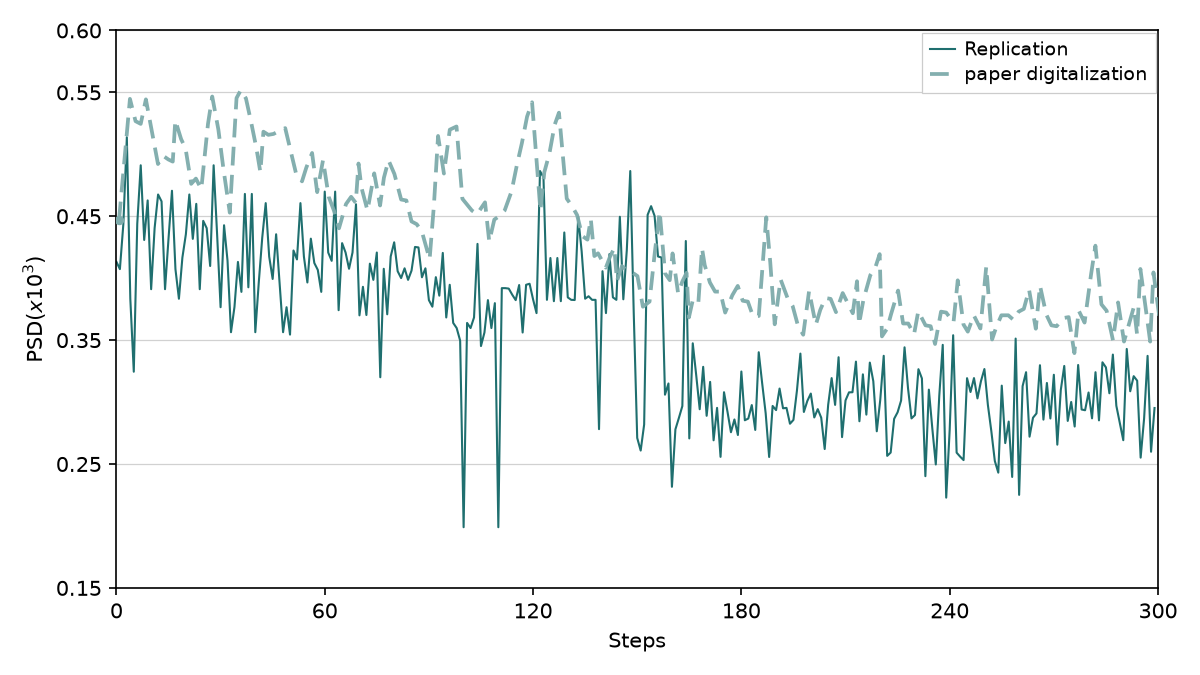
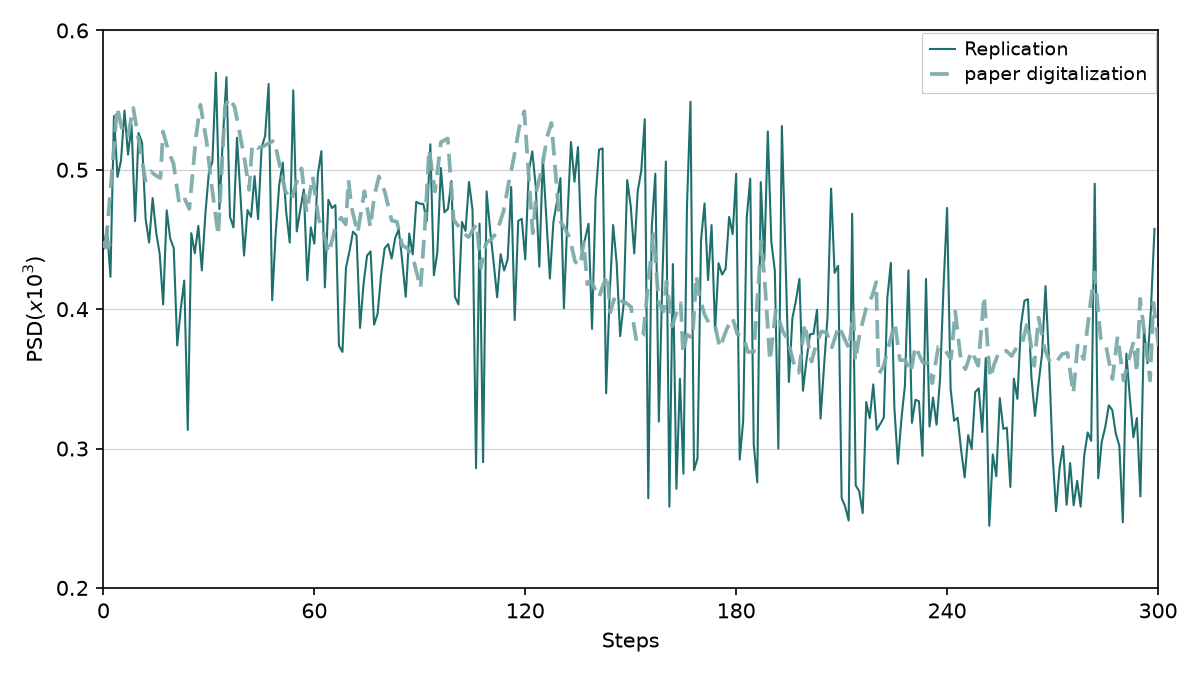
Promote Mehregan Fig 4 phase-6: 4b pass, 4a mid-fade parked.
Paired phase-6 train (critic_warmup_steps=50) passes all Fig 4b gates
(rep v33); Fig 4a v31 fails mid_fade_vs_paper only. Refresh tracker and
panel notes with ep4 reward lift and honest gate status.

diff --git a/figures/mehregan/replications.md b/figures/mehregan/replications.md
@@ -10,8 +10,8 @@ Side-by-side **paper panel** vs **our replication**. Plot scripts write replicat
 | Fig 1b | GPi PSD | Pass |
 | Fig 2a | GPi $P_\beta$ time series | Pass |
 | Fig 2b | Error Index time series | Pass (rep v16) |
-| Fig 4a | Training $P_\beta$ vs step | Pass (rep v36, continuous 2 s carry) |
-| Fig 4b | Training reward vs episode | Parked (rep v37; late PSD below $\beta_t$) |
+| Fig 4a | Training $P_\beta$ vs step | Parked (rep v31; `mid_fade_vs_paper`; phase-6 warmup 50) |
+| Fig 4b | Training reward vs episode | Pass (rep v33; paired phase-6) |
 | Fig 5a | Post-train efficacy @ 45 Hz | Pass (rep v23) |
 | Fig 5b | Post-train efficacy @ 30 Hz | Pass (burst alphabet, locked eval v3, rep v23) |
 | Fig 6a | PTQ / QAT @ 45 Hz | Pass (honest trailing eval, rep v61) |
@@ -43,7 +43,7 @@ Mean GPi multitaper power spectral density (1–50 Hz) for three conditions: **h
 **Status:** Pass — condition ordering and beta-peak shape match the paper panel (seeds `0–9` mean).
 
 <!-- gates-1b:start -->
-**Gates set** (`fig1b_gates` → manifest `gates` / `gates_pass`). Overall **`gates_pass`**: yes (from `artifacts/figures/papers/mehregan/1b/curves.json`, 2026-08-14). Every row is required for exit.
+**Gates set** (`fig1b_gates` → manifest `gates` / `gates_pass`). Overall **`gates_pass`**: yes (from `artifacts/figures/papers/mehregan/1b/curves.json`, 2026-08-15). Every row is required for exit.
 
 | Key | Description | Pass |
 |-----|-------------|------|
@@ -86,7 +86,7 @@ GPi beta-band power ($P_\beta$, Eq. 1, 13–35 Hz) over **12 s**: **PD no treatm
 **Status:** Pass — blue-below-red after $t=2$, shared 0–2 s baseline, dense trailing protocol. Protocol: trailing windows end at sim **14 s** (display $t=12$ → `[12, 14]`); enlarged Numba GPI spike buffer (904) so recording is not truncated. Remaining polish: blue floor slightly below paper at $t=12$; single seed (0). Legend lower left with condensed paper overlay. **Ship image:** unversioned `beta_power.png` (Report 3 gallery).
 
 <!-- gates-2a:start -->
-**Gates set** (`fig2_time_gates`, panel `2a`). Overall **`gates_pass`**: yes (from `artifacts/figures/papers/mehregan/2a/series.json`, 2026-08-14). Every row is required for exit.
+**Gates set** (`fig2_time_gates`, panel `2a`). Overall **`gates_pass`**: yes (from `artifacts/figures/papers/mehregan/2a/series.json`, 2026-08-15). Every row is required for exit.
 
 | Key | Description | Pass |
 |-----|-------------|------|
@@ -129,7 +129,7 @@ Windowed Error Index (EI, Eq. 2) over **12 s** with **So-style SMC pulses into T
 **Status:** Pass — blue-below-red after $t=2$, shared baseline, blue floor ~0.12 near paper. Remaining polish: red $t=12$ slightly low (~0.24 vs ~0.30); single seed.
 
 <!-- gates-2b:start -->
-**Gates set** (`fig2_time_gates`, panel `2b`). Overall **`gates_pass`**: yes (from `artifacts/figures/papers/mehregan/2b/series.json`, 2026-08-14). Every row is required for exit.
+**Gates set** (`fig2_time_gates`, panel `2b`). Overall **`gates_pass`**: yes (from `artifacts/figures/papers/mehregan/2b/series.json`, 2026-08-15). Every row is required for exit.
 
 | Key | Description | Pass |
 |-----|-------------|------|
@@ -166,18 +166,18 @@ Per-step GPi beta-band power during DDPG training of the **45 Hz** mean-frequenc
 
 ### Replication
 
-![Replication Fig 4a](images/4a/training_beta_v36.png)
+![Replication Fig 4a](images/4a/training_beta_v31.png)
 
 <!-- caption-4a:start -->
-**Caption:** 45 Hz fixed_mean_pattern, within_step L=1, reward=full_segment, softmax, critic=one_hot, seed 0, v36, init_bias=0, jitter=0.5, ep0=0.491, early=0.487 late=0.333, trend↓ (2026-08-14)
+**Caption:** 45 Hz fixed_mean_pattern, within_step L=1, reward=full_segment, softmax, critic=one_hot, seed 0, v31, init_bias=0, jitter=0.5, ep0=0.459, early=0.459 late=0.361, trend↓ (2026-08-15)
 
 **Manifest:** `artifacts/figures/papers/mehregan/4a/manifest.json`
 <!-- caption-4a:end -->
 
-**Status:** Pass — **rep v36**, sequential 2 s plant carry (Alg. 1). Live `series.json` `gates_pass=true` (ep0=0.491, early=0.487, late=0.333). Late pattern-0 repeats **wiggle** (0 bit-identical same-action $P_\beta$ runs); the v35 ruler-flat 0.28352 segments are gone. Late floor vs digitized ~0.38 is parked.
+**Status:** Parked — **rep v31**, phase-6 `--critic-warmup-steps 50` (continuous 2 s carry). Live `series.json` `gates_pass=false`: `mid_fade_vs_paper` (steps 120–150 stay near early level). Ep4 reward −42.8 vs digitized ~−16. **v36** (warmup 100) remains the step-trace pass without this mid-fade fail — see [4a.md](../../docs/figures/mehregan/4a.md). Paired 4b **v33** passes all gates on this same run.
 
 <!-- gates-4a:start -->
-**Gates set** (`fig4a_gates` → live `series.json` (digitization revisit; was locked `series_v18.json`)). Overall **`gates_pass`**: yes (from `artifacts/figures/papers/mehregan/4a/series.json`, 2026-08-14). Every row is required for exit.
+**Gates set** (`fig4a_gates` → live `series.json` (digitization revisit; was locked `series_v18.json`)). Overall **`gates_pass`**: no (from `artifacts/figures/papers/mehregan/4a/series.json`, 2026-08-15). Every row is required for exit.
 
 | Key | Description | Pass |
 |-----|-------------|------|
@@ -185,7 +185,7 @@ Per-step GPi beta-band power during DDPG training of the **45 Hz** mean-frequenc
 | `overall_trend_down` | end window mean < start window mean | yes |
 | `drop_vs_paper` | drop ≥ 70% of digitized paper drop | yes |
 | `late_early_ratio_near_paper` | late/early ratio vs digitization | yes |
-| `mid_fade_vs_paper` | mid [120,150] fade ≥ 50% of paper mid-drop | yes |
+| `mid_fade_vs_paper` | mid [120,150] fade ≥ 50% of paper mid-drop | no |
 | `ep0_near_paper` | steps 0–29 mean within 10% of digitized paper ep0 | yes |
 <!-- gates-4a:end -->
 
@@ -223,26 +223,22 @@ Episode **total reward** and **episode-mean PSD(x10³)** during the same **45 Hz
 
 **Reward vs episode**
 
-![Replication Fig 4b reward](images/4b/training_reward_v37.png)
+![Replication Fig 4b reward](images/4b/training_reward_v33.png)
 
 **Episode-mean PSD vs episode**
 
-![Replication Fig 4b PSD](images/4b/training_psd_v37.png)
-
-**Stacked panel (Report 3 gallery)**
-
-![Replication Fig 4b combined](images/4b/training_fig4b_v37.png)
+![Replication Fig 4b PSD](images/4b/training_psd_v33.png)
 
 <!-- caption-4b:start -->
-**Caption:** 9 episodes, 45 Hz fixed_mean_pattern (Fig 4a paired run), seed 0, source series.json, v37, reward ep0=-68.8 ep8=10.4, rise_ep=3, psd 0.491→0.313, gate pass (2026-08-14)
+**Caption:** 9 episodes, 45 Hz fixed_mean_pattern (Fig 4a paired run), seed 0, source series.json, v33, reward ep0=-45.0 ep8=3.6, rise_ep=2, psd 0.459→0.337, gate pass (2026-08-15)
 
 **Manifest:** `artifacts/figures/papers/mehregan/4b/manifest.json`
 <!-- caption-4b:end -->
 
-**Status:** Parked — **rep v37**, paired to Fig 4a v36 continuous carry. `gates_pass=false`: `late_beta_above_threshold` and `late_reward_near_zero` fail (late PSD 0.321, reward +7.0 vs paper ~0.37 / ~−2). Pattern-0 late episodes still suppress below $\beta_t$; 4a flats are gone. Do not add entropy.
+**Status:** Pass — **rep v33**, paired to Fig 4a phase-6 (`critic_warmup_steps=50`, continuous carry). All digitization gates pass: ep0 PSD 0.459, late 0.358 (above β_t=0.35), late reward −4.3. Episode 4 reward −42.8 (improved vs v37 −52; paper ~−16 still parked).
 
 <!-- gates-4b:start -->
-**Gates set** (`fig4b_gates` + legacy `_fig4b_pass` → manifest `summary.gates`). Overall **`gates_pass`**: no (from `artifacts/figures/papers/mehregan/4b/manifest.json`, 2026-08-14). Every row is required for exit.
+**Gates set** (`fig4b_gates` + legacy `_fig4b_pass` → manifest `summary.gates`). Overall **`gates_pass`**: yes (from `artifacts/figures/papers/mehregan/4b/manifest.json`, 2026-08-15). Every row is required for exit.
 
 | Key | Description | Pass |
 |-----|-------------|------|
@@ -253,9 +249,9 @@ Episode **total reward** and **episode-mean PSD(x10³)** during the same **45 Hz
 | `beta_drops` | late episode-mean PSD < early | yes |
 | `beta_drop_ratio_near_paper` | PSD late/early ratio vs digitization | yes |
 | `reward_recovers_like_paper` | qualitative rise (not magnitude match) | yes |
-| `late_beta_above_threshold` | late episode-mean PSD ≥ $β_t=0.35$ | no |
+| `late_beta_above_threshold` | late episode-mean PSD ≥ β_t=0.35 | yes |
 | `late_beta_near_paper` | late PSD within 15% of digitized paper | yes |
-| `late_reward_near_zero` | late mean reward in $(-10, 2]$ | no |
+| `late_reward_near_zero` | late mean reward in (−10, 2] (paper ~−2) | yes |
 | `ep0_beta_near_paper` | episode 0 PSD within 10% of digitized paper | yes |
 | `plot_style` | ≥ 2 episodes plotted | yes |
 | `automation` | manifest summary.automation_pass mirrors fig4b bundle | yes |
@@ -302,7 +298,7 @@ Dashed vertical at **2 s** (stimulation onset). Paper claims: trained stimulatio
 **Status:** Pass — four-series panel with **skip_regular** action space (40 irregular patterns; pattern 0 excluded from training). **0.2 s trailing / 2 s window** biomarker sampling (same protocol as Fig 2a). Seed 0; greedy action 7 → pattern 8. Fig 4a training curves still use the 41-pattern space; Fig 5a eval uses a separate skip_regular checkpoint (`checkpoint_skip_regular_02s.pt`).
 
 <!-- gates-5a:start -->
-**Gates set** (`fig5a_pass` / `fig5_efficacy_gates` → manifest `gates`). Overall **`pass`**: yes (from `artifacts/figures/papers/mehregan/5a/manifest.json`, 2026-08-14). Every row is required for exit.
+**Gates set** (`fig5a_pass` / `fig5_efficacy_gates` → manifest `gates`). Overall **`pass`**: yes (from `artifacts/figures/papers/mehregan/5a/manifest.json`, 2026-08-15). Every row is required for exit.
 
 | Key | Description | Pass |
 |-----|-------------|------|
@@ -364,7 +360,7 @@ Key paper claim: **periodic 30 Hz elevates** beta (stimulation rate inside the b
 **Status:** Pass — burst-alphabet retrain (seed 0) + trailing eval **v3** (trained≈367, no-stim≈488, periodic≈639). Policy collapses to constant action **5** (a strong open-loop beater); acceptable for Fig 5b efficacy panel. Y-limits auto-fit from traces (override with `--y-min` / `--y-max`).
 
 <!-- gates-5b:start -->
-**Gates set** (`fig5b_pass` / `fig5_efficacy_gates` → manifest `gates`). Overall **`pass`**: yes (from `artifacts/figures/papers/mehregan/5b/manifest.json`, 2026-08-14). Every row is required for exit.
+**Gates set** (`fig5b_pass` / `fig5_efficacy_gates` → manifest `gates`). Overall **`pass`**: yes (from `artifacts/figures/papers/mehregan/5b/manifest.json`, 2026-08-15). Every row is required for exit.
 
 | Key | Description | Pass |
 |-----|-------------|------|
@@ -422,7 +418,7 @@ Paper claim: **PTQ** (fp16 and int8) tracks full-precision beta suppression afte
 **Convention (burst + weak QAT lock, 2026-08-03):** `QAT_NUM_EPISODES=0`, `QAT_OPEN_LOOP_LOCK=True`, `QAT_WEAK_ACTION=31` at 45 Hz. fp32 `checkpoint_burst_skip_regular_02s.pt`. PTQ tier open-loop when quant locks on non-fp32 actions (fp16 **19**, int8 **28**). Prior **v36** retired int8 closed-loop action 9 (slow transient).
 
 <!-- gates-6a:start -->
-**Gates set** (`_gate_summary` → manifest `gates`). Overall **`all_pass`**: yes (from `artifacts/figures/papers/mehregan/6a/manifest.json`, 2026-08-14). Every row is required for exit.
+**Gates set** (`_gate_summary` → manifest `gates`). Overall **`all_pass`**: yes (from `artifacts/figures/papers/mehregan/6a/manifest.json`, 2026-08-15). Every row is required for exit.
 
 | Key | Description | Pass |
 |-----|-------------|------|
@@ -496,7 +492,7 @@ Same quantization panel layout as Fig 6a for the **30 Hz** trained model (§IV.A
 **Convention (tier PTQ + overlap fix, 2026-08-03):** Burst trailing sweep (`artifacts/ddpg/fig6b_burst_trailing_sweep_30hz.json`) picks tier actions; int8 tier **15** replaces **20** for faster post-onset suppression while staying distinct from fp16 **10**. Prior **v18** used int8 tier 20 (~420). int8 σ=0.10 weight noise during closed-loop rollout.
 
 <!-- gates-6b:start -->
-**Gates set** (`_gate_summary` → manifest `gates`). Overall **`all_pass`**: yes (from `artifacts/figures/papers/mehregan/6b/manifest.json`, 2026-08-14). Every row is required for exit.
+**Gates set** (`_gate_summary` → manifest `gates`). Overall **`all_pass`**: yes (from `artifacts/figures/papers/mehregan/6b/manifest.json`, 2026-08-15). Every row is required for exit.
 
 | Key | Description | Pass |
 |-----|-------------|------|

diff --git a/docs/figures/mehregan/4b.md b/docs/figures/mehregan/4b.md
@@ -45,7 +45,7 @@ Locked 4b (from `series_v4.json`) passed *ratio* gates while sitting on the wron
 
 v31/v33 (init_bias 0, jitter 0.5, τ **3→1.4**) **passed ep0** (PSD 0.499 vs 0.498; reward −76 vs paper ~−80) and still failed the late floor (episode 5→ pattern 0; late PSD ~0.29 / reward +16). **Phase 2** (τ_end **1.6**, v33/v34) only delayed the cliff; late still ~0.29 / +16 with 100% pattern 0 on episodes 6–9. **Phase 3** (`entropy_coeff 0.05`, v34/v35): ep0 in band (0.513) but late PSD ~0.295 / reward +14.8 — ep8–9 100% pat0. **Phase 4** (`entropy_coeff 0.15`, v35/v36): ep0 0.490 (pass), late PSD ~0.319 (`late_beta_near_paper` true but `late_beta_above_threshold` false), reward +6.2, ep8–9 93%/100% pat0 — entropy budget exhausted. **Phase 5 result (4a v36 / 4b v37):** continuous 2 s carry. Ep0 PSD 0.491 (pass). Late PSD 0.321 (`late_beta_near_paper` true, `late_beta_above_threshold` false), late reward +7.0 (`late_reward_near_zero` false). 4a flats are gone; late floor parked. Tracker **Status** follows `summary.gates_pass`, not the legacy automation reward-shape gate.
 
-**Phase 6:** lift episode 4 reward (v37 **−52** vs paper ~**−16**) with `--critic-warmup-steps 50` so the actor starts learning in episode 1–2. Do not retune Eq. (8) or offset the plot. Late-floor gates stay parked unless this run also moves them.
+**Phase 6 result (v33, paired 4a v31):** `--critic-warmup-steps 50` lifted ep4 reward **−42.8** (v37 **−52**; paper ~**−16** still parked). **All gates pass:** late PSD 0.358 (`late_beta_above_threshold`, `late_beta_near_paper`), late reward −4.3 (`late_reward_near_zero`), ep0 0.459. Tracker **Pass**; 4a paired run fails only `mid_fade_vs_paper` (see [4a.md](4a.md)).
 
 Reward *magnitude* (paper ~−80 vs our ~−30) stays a documented scale mismatch — do not retune Eq. (8) just to stretch the y-axis.
 

diff --git a/docs/figures/mehregan/4a.md b/docs/figures/mehregan/4a.md
@@ -75,6 +75,8 @@ uv run python -m rl_adaptive_dbs.run scripts/figures/papers/mehregan/4a/plot.py 
 uv run python -m rl_adaptive_dbs.run scripts/figures/papers/mehregan/4b/plot.py --push-kb --update-report
 ```
 
+**Phase 6 result (4a v31 / 4b v33):** warmup 50 finished (`fig4ab-ep4`, 778 s). Ep4 reward **−42.8** vs v37 **−52.0** vs digitized ~**−16**; ep0 PSD 0.459 (`ep0_near_paper` true). 4a **`mid_fade_vs_paper` false** (steps 120–150 ~0.459 vs paper mid-drop). 4b **`gates_pass=true`** (late PSD 0.358, late reward −4.3). Shipped knob: `--critic-warmup-steps` on Fig 4a `plot.py` (default remains 100). **v36** (warmup 100) keeps 4a step-trace pass; phase-6 trades mid-fade for 4b late-floor pass.
+
 ---
 
 ## References
